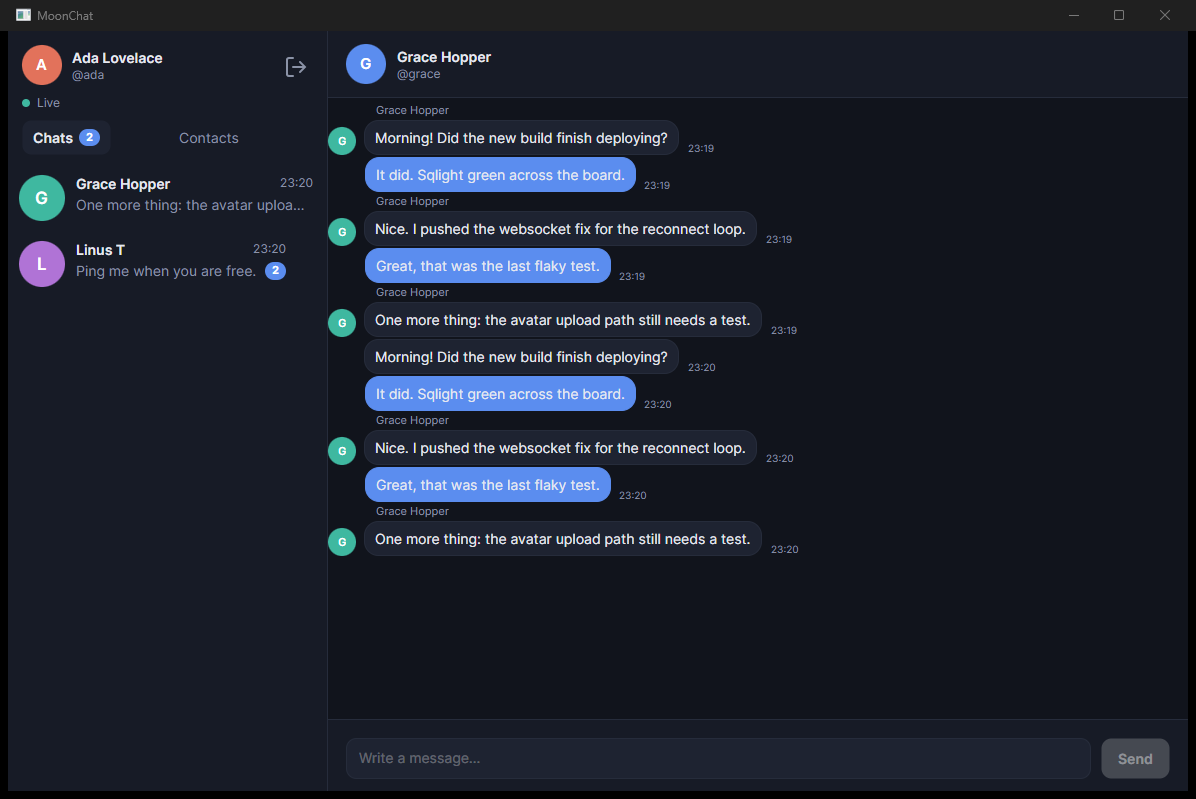
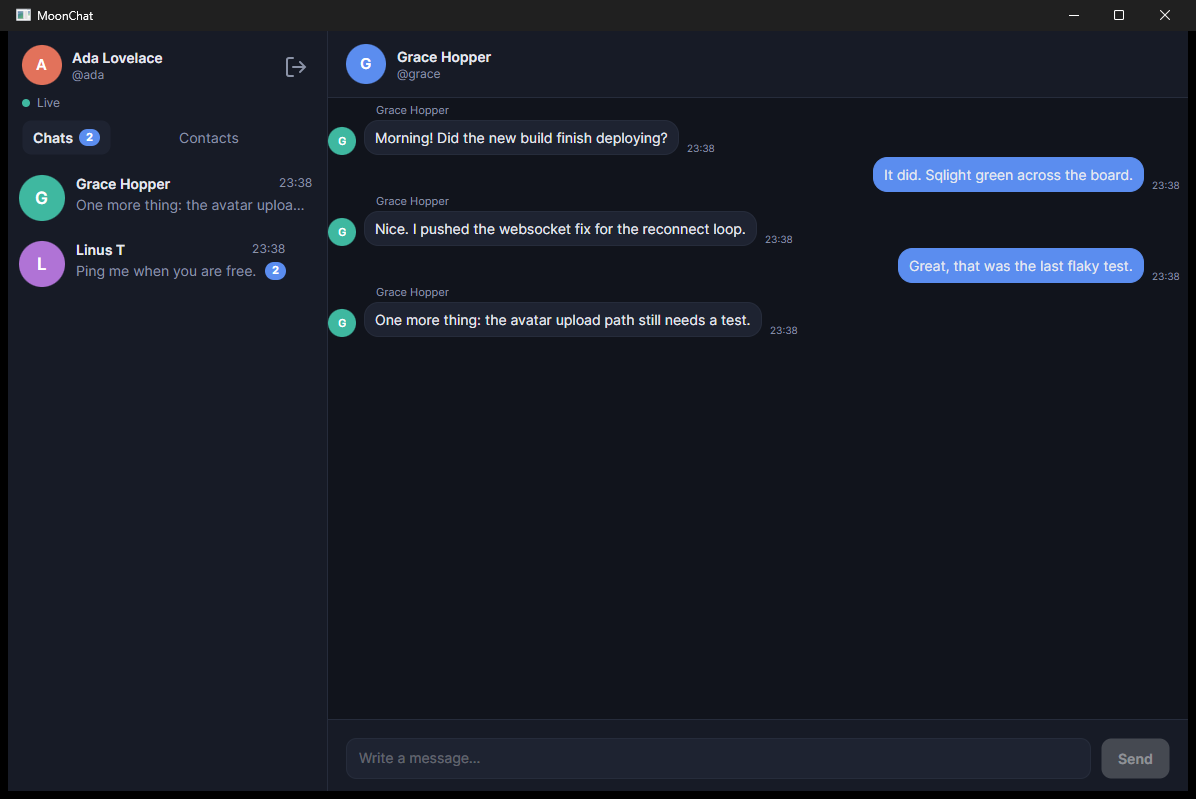
Chat bubble fix

diff --git a/ViewModels/MessageItem.cs b/ViewModels/MessageItem.cs
@@ -25,6 +25,7 @@ public sealed class MessageItem : ViewModelBase
 
     public ChatMessage Message { get; }
 
+    /// <summary>True for messages the signed-in user sent. Drives the accent colour.</summary>
     public bool IsMine { get; }
 
     public bool ShowHeader { get; }
@@ -34,8 +35,8 @@ public sealed class MessageItem : ViewModelBase
     public string Time => Message.Timestamp.ToLocalTime().ToString("HH:mm");
 
     /// <summary>
-    /// Own messages sit on the right, everything else on the left. Exposed as
-    /// an alignment so the view needs no triggers.
+    /// Own messages sit on the right, incoming ones on the left. Exposed as an
+    /// alignment so the view needs no triggers.
     /// </summary>
     public HorizontalAlignment BubbleAlignment =>
         IsMine ? HorizontalAlignment.Right : HorizontalAlignment.Left;
